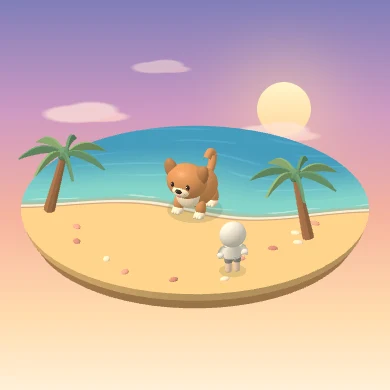
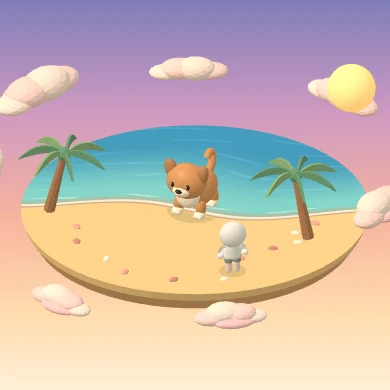
Add a 3D coastal sky and cover shadows with water

diff --git a/sw.js b/sw.js
@@ -1,10 +1,10 @@
-const CACHE='annyeong-v89';
+const CACHE='annyeong-v90';
 const APP_FILES=[
-  './','./manifest.webmanifest?v=7','./app/style.css?v=89','./app/main.js?v=89','./app/photos.js?v=39',
-  './app/annyeong-wordmark.webp','./app/paw-cursor-pink.png','./app/fonts/nanum-pen-script.woff2','./app/treats.js','./app/treat-meat.png','./app/treat-fish.png','./app/friends.js?v=80','./app/account.js?v=80','./app/icons.svg?v=22','./app/data.js','./app/data.js?v=18','./app/avatar.js?v=35','./app/scene.js?v=89','./app/vendor/three.module.min.js',
+  './','./manifest.webmanifest?v=7','./app/style.css?v=90','./app/main.js?v=90','./app/photos.js?v=39',
+  './app/annyeong-wordmark.webp','./app/paw-cursor-pink.png','./app/fonts/nanum-pen-script.woff2','./app/treats.js','./app/treat-meat.png','./app/treat-fish.png','./app/friends.js?v=80','./app/account.js?v=80','./app/icons.svg?v=22','./app/data.js','./app/data.js?v=18','./app/avatar.js?v=35','./app/scene.js?v=90','./app/vendor/three.module.min.js',
   './app/owner-model.js?v=43','./app/owner-colors.js','./app/models/hood_character_cylindrical_legs.glb','./app/vendor/GLTFLoader.js','./app/vendor/BufferGeometryUtils.js',
   './app/welcome-pets/dog.webp','./app/welcome-pets/cat.webp','./app/welcome-pets/hamster.webp','./app/welcome-pets/parrot.webp','./app/welcome-pets/lizard.webp',
-  './app/coast.js?v=89','./app/theme-catalog.js','./app/theme-catalog.js?v=89','./app/extra-themes.js','./app/walk-preview.webp?v=81','./app/clouds-preview.webp','./app/stars-preview.webp','./app/coast-preview.webp?v=89','./app/food-intro-cake.webp','./app/food-game.js?v=77','./app/items.js','./app/item-names.js',
+  './app/coast.js?v=90','./app/theme-catalog.js','./app/theme-catalog.js?v=90','./app/extra-themes.js','./app/walk-preview.webp?v=81','./app/clouds-preview.webp','./app/stars-preview.webp','./app/coast-preview.webp?v=90','./app/food-intro-cake.webp','./app/food-game.js?v=77','./app/items.js','./app/item-names.js',
   './app/item-ball.png','./app/item-bath.png','./app/item-vacuum.png','./app/item-tube.png','./app/item-bag.png','./app/item-gift-0.png','./app/item-gift-1.png','./app/item-gift-2.png',
   './app/vendor/jquery.min.js','./app/icon-drawing-192.png','./app/icon-heart-32.png','./app/icon-heart-192.png','./app/icon-heart-512.png'
 ];

diff --git a/app/coast.js b/app/coast.js
@@ -50,9 +50,38 @@ export function makeCoast(scene,theme) {
 
         gl_FragColor=vec4(color,smoothstep(-.15,-.07,depth));
       }`,
-    transparent:true,depthWrite:false
+    transparent:true
   });
-  add(new T.CircleGeometry(radius,64),water,0,.002,0).rotation.x=-Math.PI/2;
+  // Draw the water above contact shadows and write its depth before they render.
+  const waterSurface=add(new T.CircleGeometry(radius,64),water,0,.015,0);
+  waterSurface.rotation.x=-Math.PI/2;
+  waterSurface.renderOrder=-1;
+
+  const sky=new T.Group();
+  scene.add(sky);
+  const puffGeometry=new T.IcosahedronGeometry(1,2);
+  const cloudColors=[material(0xffd7cf),material(0xffe6d8),material(0xffc7ca)];
+  for (const [angle,height,size] of [
+    [.05,1.6,.85],[.95,-.15,.7],[1.8,-.34,.68],[2.65,1.4,.95],
+    [3.42,1.55,1.05],[4.23,1.12,.75],[5.03,1.2,.85],[5.82,2.1,.65]
+  ]) {
+    const cloud=new T.Group();
+    cloud.position.set(Math.cos(angle)*(radius+1),height,Math.sin(angle)*(radius+1));
+    cloud.rotation.y=Math.PI/2-angle;
+    cloud.scale.setScalar(size);
+    for (const [x,y,z,sx,sy,sz,tint] of [
+      [-.77,-.02,0,.67,.27,.46,0],[-.27,.12,-.08,.72,.4,.53,1],
+      [.3,.08,0,.68,.35,.51,0],[.78,-.06,.02,.59,.23,.43,1],
+      [.05,-.1,.27,.82,.22,.45,2]
+    ]) {
+      add(puffGeometry,cloudColors[tint],x,y,z,cloud).scale.set(sx,sy,sz);
+    }
+    sky.add(cloud);
+  }
+  const sunShade=new T.MeshStandardMaterial({
+    color:0xffd997,emissive:0xffb960,emissiveIntensity:.55,roughness:1
+  });
+  add(new T.SphereGeometry(.64,24,16),sunShade,2.45,2.05,-4.45,sky);
 
   const bark=material(0xb17c57);
   const leaves=[material(0x6b9b78),material(0x8cb17e)];
@@ -85,5 +114,6 @@ export function makeCoast(scene,theme) {
 
   return time => {
     water.uniforms.clock.value=time;
+    sky.rotation.y=Math.sin(time*.075)*.06;
   };
 }

diff --git a/app/style.css b/app/style.css
@@ -253,38 +253,6 @@ section > .page-back { margin-bottom: 20px; }
 @media (prefers-reduced-motion: reduce) {
   #home[data-background="stars"] .meadow-fallback::after { animation: none; }
 }
-.coast-sky { display: none; }
-#home[data-background="coast"] .coast-sky {
-  display: block;
-  position: absolute;
-  inset: 0;
-  z-index: -1;
-  pointer-events: none;
-}
-.coast-sunset {
-  position: absolute;
-  left: 66%;
-  top: 21%;
-  width: clamp(54px, 11vmin, 112px);
-  aspect-ratio: 1;
-  border-radius: 50%;
-  background: linear-gradient(#fff5ca,#ffd69d);
-  box-shadow: 0 0 64px 24px #ffd8aa91;
-}
-.coast-cloud {
-  position: absolute;
-  left: 10%;
-  top: 26%;
-  width: clamp(94px, 23vw, 360px);
-  aspect-ratio: 4.2;
-  background:
-    radial-gradient(ellipse 37% 42% at 38% 57%, #ffe3d8 76%, transparent 100%),
-    radial-gradient(ellipse 31% 42% at 56% 42%, #ffe5db 74%, transparent 100%),
-    radial-gradient(ellipse 34% 27% at 65% 68%, #ffd8cb 72%, transparent 100%);
-  opacity: .72;
-}
-.coast-cloud:nth-of-type(3) { left: 59%; top: 31%; width: clamp(94px, 21vw, 330px); }
-.coast-cloud:nth-of-type(4) { left: 33%; top: 15%; width: clamp(65px, 13vw, 200px); opacity: .5; }
 #home[data-background="coast"] .meadow-clouds { display: none; }
 #home[data-background="coast"] .meadow-island {
   background: linear-gradient(157deg, #489caf 15%, #80cfc7 45%, #fff1ce 49%, #dfb382 51%, #ffd497 57%);

diff --git a/app/main.js b/app/main.js
@@ -1,4 +1,4 @@
-import {themes,themeId,purchasedThemes} from './theme-catalog.js?v=89';
+import {themes,themeId,purchasedThemes} from './theme-catalog.js?v=90';
 import {createFoodGame} from './food-game.js?v=77';
 import {ownerColors as cleanOwnerColors} from './owner-colors.js';
 import {itemShape} from './item-names.js';
@@ -33,7 +33,7 @@ const random=values => values[Math.floor(Math.random()*values.length)];
 const dayKey=(date=new Date()) => [date.getFullYear(),date.getMonth()+1,date.getDate()].map(value => String(value).padStart(2,'0')).join('-');
 const civilDate=key => Date.parse(key+'T00:00:00Z');
 const tags=value => [...new Set(value.split(',').map(item => item.trim()).filter(Boolean))];
-const scenes=import('./scene.js?v=89').catch(() => null);
+const scenes=import('./scene.js?v=90').catch(() => null);
 let state, draft, addingFriend=false;
 let riding=false;
 let page, scene, sceneRevision=0, replyTimer, photoUrl, installPrompt, modeDates={};

diff --git a/app/theme-catalog.js b/app/theme-catalog.js
@@ -1,6 +1,6 @@
 export const themes={
   meadow:{name:'초원',price:0},
-  coast:{name:'노을 바다',price:50,preview:'coast-preview.webp?v=89',alt:'구름이 떠 있는 노을 아래 모래사장과 파도가 만나는 해변'},
+  coast:{name:'노을 바다',price:50,preview:'coast-preview.webp?v=90',alt:'구름이 떠 있는 노을 아래 모래사장과 파도가 만나는 해변'},
   walk:{name:'동네 산책길',price:50,preview:'walk-preview.webp?v=81',alt:'가로등과 벤치가 있는 벽돌 산책로'},
   clouds:{name:'구름 위',price:50,alt:'하늘 위에 떠 있는 폭신한 구름'},
   stars:{name:'별빛 초원',price:50,alt:'별과 달이 빛나는 밤의 초원'}

diff --git a/app/scene.js b/app/scene.js
@@ -3,7 +3,7 @@ import * as T from './vendor/three.module.min.js';
 import { createAvatar } from './avatar.js?v=35';
 import { createMeatTreat, createFishTreat } from './treats.js';
 import {createItem} from './items.js';
-import {coast,makeCoast} from './coast.js?v=89';
+import {coast,makeCoast} from './coast.js?v=90';
 import { meadow } from './data.js';
 import {buildOwnerModel} from './owner-model.js?v=43';
 import {ownerColors as cleanColors} from './owner-colors.js';

diff --git a/index.php b/index.php
@@ -8,10 +8,10 @@
   <link rel="manifest" href="./manifest.webmanifest?v=7">
   <link rel="icon" type="image/png" sizes="32x32" href="./app/icon-heart-32.png">
   <link rel="apple-touch-icon" href="./app/icon-drawing-192.png">
-  <link rel="stylesheet" href="./app/style.css?v=89">
+  <link rel="stylesheet" href="./app/style.css?v=90">
   <title>안녕</title>
   <script defer src="./app/vendor/jquery.min.js"></script>
-  <script type="module" src="./app/main.js?v=89"></script>
+  <script type="module" src="./app/main.js?v=90"></script>
 </head>
 <body>
 <audio id="meadow-music" src="./app/meadow-music.m4a" preload="none" loop></audio>
@@ -95,7 +95,6 @@
     </section>
     <section id="home" aria-label="초원" hidden>
       <div class="scene" id="home-scene">
-        <div class="coast-sky" aria-hidden="true"><span class="coast-sunset"></span><span class="coast-cloud"></span><span class="coast-cloud"></span><span class="coast-cloud"></span></div>
         <div class="meadow-fallback" aria-hidden="true">
           <div class="meadow-clouds"></div>
           <div class="meadow-island">
